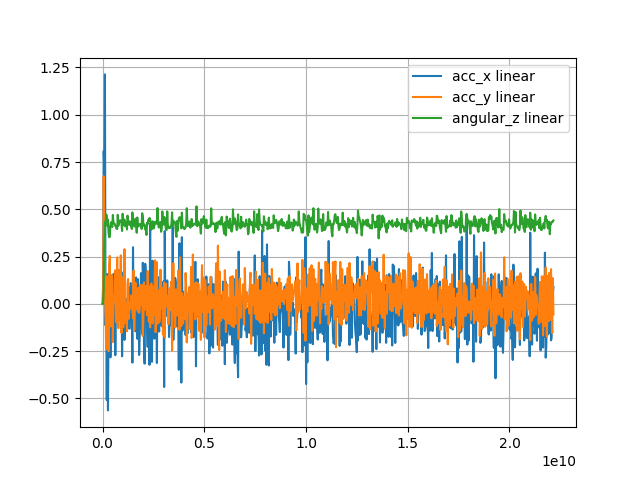
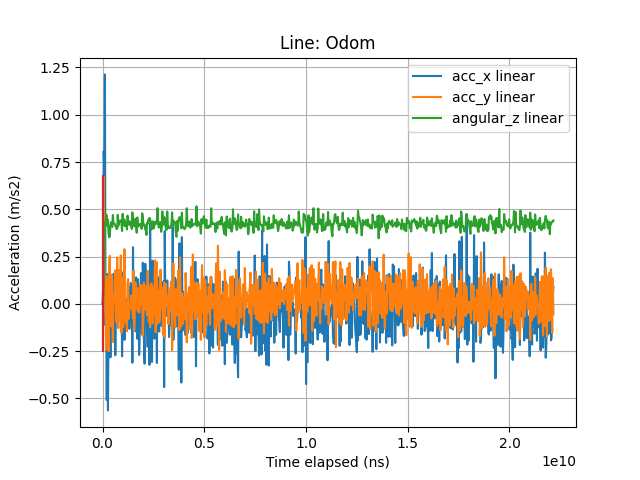
plots updated with axes

Changed region(s): [[0.4375, 0.0625, 0.5938, 0.125], [0.0, 0.375, 0.0312, 0.6562], [0.4062, 0.9375, 0.625, 1.0]]

diff --git a/laser_post_processor.py b/laser_post_processor.py
@@ -6,9 +6,9 @@ import matplotlib.pyplot as plt
 
 
 # Load the CSV file Uncomment to load
-# input_file = '/home/przhan/MTE544_student/Raw Data/laser_content_line.csv'  # Replace with your CSV file path
+input_file = '/home/przhan/MTE544_student/Raw Data/laser_content_line.csv'  # Replace with your CSV file path
 # input_file = '/home/przhan/MTE544_student/Raw Data/laser_content_circle.csv'  # Replace with your CSV file path
-input_file = '/home/przhan/MTE544_student/Raw Data/laser_content_spiral.csv'  # Replace with your CSV file path
+# input_file = '/home/przhan/MTE544_student/Raw Data/laser_content_spiral.csv'  # Replace with your CSV file path
 
 #Helper file
 output_file = 'cleaned_output.csv'
@@ -29,7 +29,7 @@ def clean_data(value):
     return value  # Return the value unchanged if it's not a string
 
 
-# Read the second row only (skip the first row, dont need headers)
+# Read the second row only (skip the first row of headers)
 df = pd.read_csv(input_file, skiprows=1, nrows=1, header=None)
 
 # Parse the first column which contains the array-like data
@@ -38,10 +38,10 @@ df[0] = df[0].apply(parse_array)
 # Get the second line (which is now the only line in df after skipping the header)
 second_line = df.iloc[0]
 
-# Convert the second line to a DataFrame to write it easily to a CSV
+# Convert the second line to a DataFrame to write it to a CSV
 df_second_line = pd.DataFrame([second_line])
 
-# Write the second line to a new CSV file
+# Write the second line to a new CSV file (use this to check using Excel for correct parsing)
 df_second_line.to_csv('temp_file.csv', index=False, header=False)
 
 # Apply the clean_data function to all cells in the DataFrame
@@ -81,5 +81,8 @@ for readings in cleaned_df.iloc[:, :-2].values: #take out last 2, since those ar
 #plotting x_cart vs y_cart
 plt.scatter(x_cart, y_cart)
 plt.legend()
+plt.title('Line: First LaserScan')
+plt.xlabel('Distance from Robot(m)')
+plt.ylabel('Distance from Robot(m)')
 plt.grid()
 plt.show()

diff --git a/filePlotter.py b/filePlotter.py
@@ -17,8 +17,11 @@ def plot_errors(filename):
     for i in range(0, len(headers) - 1):
         plt.plot(time_list, [lin[i] for lin in values], label= headers[i]+ " linear")
     
-    #plt.plot([lin[0] for lin in values], [lin[1] for lin in values])
+    plt.plot([lin[0] for lin in values], [lin[1] for lin in values])
     plt.legend()
+    plt.xlabel('Time elapsed (ns)')
+    plt.ylabel('Velocity (m/s)')
+    plt.title('Spiral: Odom')
     plt.grid()
     plt.show()
     
